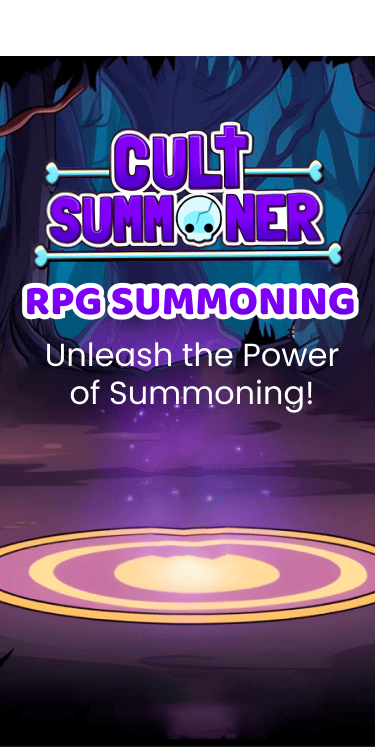
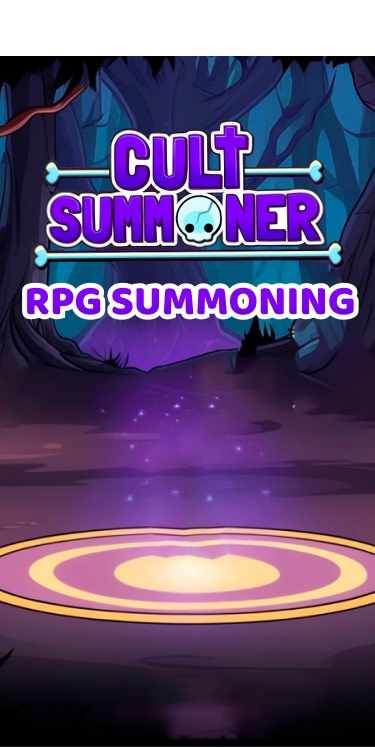
1

Changed region(s): [[0.1173, 0.4618, 0.9093, 0.5542]]

diff --git a/css/main.css b/css/main.css
@@ -1,6 +1,4 @@
-@import url("https://fonts.googleapis.com/css2?family=Fredoka:wght@300..700&family=Mali:ital,wght@0,200;0,300;0,400;0,500;0,600;0,700;1,200;1,300;1,400;1,500;1,600;1,700&family=Manrope:wght@200..800&family=Rajdhani:wght@300;400;500;600;700&display=swap");
-@import url("https://fonts.googleapis.com/css2?family=Baloo+2:wght@400..800&family=DynaPuff:wght@400..700&family=Fredoka:wght@300..700&family=Josefin+Sans:ital,wght@0,100..700;1,100..700&family=Mali:ital,wght@0,200;0,300;0,400;0,500;0,600;0,700;1,200;1,300;1,400;1,500;1,600;1,700&family=Manrope:wght@200..800&family=Rajdhani:wght@300;400;500;600;700&display=swap");
-@import url("https://fonts.googleapis.com/css2?family=Baloo+2:wght@400..800&family=Comme:wght@100..900&family=DynaPuff:wght@400..700&family=Fredoka:wght@300..700&family=Josefin+Sans:ital,wght@0,100..700;1,100..700&family=Mali:ital,wght@0,200;0,300;0,400;0,500;0,600;0,700;1,200;1,300;1,400;1,500;1,600;1,700&family=Manrope:wght@200..800&family=Rajdhani:wght@300;400;500;600;700&display=swap");
+@import url("https://fonts.googleapis.com/css2?family=Baloo+2:wght@400..800&display=swap");
 
 :root {
   --main-font: "Quicksand";
@@ -450,6 +448,18 @@ a {
   -ms-flex-align: center;
   align-items: center;
 }
+.home-text {
+  display: flex;
+  justify-content: center;
+  align-items: center;
+  font-family: Poppins;
+  font-size: 32px;
+  font-weight: 500;
+  line-height: 32px;
+  text-align: center;
+  color: #ffffff;
+  margin-top: 350px;
+}
 .home__container-top {
   display: -webkit-box;
   display: -ms-flexbox;
@@ -459,7 +469,7 @@ a {
   -ms-flex-direction: column;
   flex-direction: column;
   align-items: center;
-  margin-top: 600px;
+  margin-top: 100px;
 }
 
 .home__google-button_link {
@@ -474,7 +484,6 @@ a {
   animation: pulse 2s infinite;
   width: 264px;
   height: 66px;
-  margin-top: -100px;
   width: 200px;
 }
 .home__google-button_image {
@@ -491,89 +500,178 @@ a {
     height: 980px;
     gap: 0px;
     opacity: 0px;
-    background-image: url("/image/hero/Home\ \(2\)\ \(1\).png");
+    background-image: url("/image/hero/Home\ \(1\).png");
   }
-
-  .home__google-button_link {
-    width: 300px;
-    height: 86px;
-    margin: auto;
-    margin-top: 80px;
-    margin-left: 60px;
+  .home-text {
+    display: flex;
+    justify-content: center;
+    align-items: center;
+    font-family: Poppins;
+    font-size: 42px;
+    font-weight: 500;
+    line-height: 42px;
+    text-align: center;
+    color: #ffffff;
+    margin-top: 550px;
+    width: 576px;
+  }
+  .home__container-top {
+    display: -webkit-box;
+    display: -ms-flexbox;
+    display: flex;
+    -webkit-box-orient: vertical;
+    -webkit-box-direction: normal;
+    -ms-flex-direction: column;
+    flex-direction: column;
+    align-items: center;
+    margin-top: 50px;
   }
 }
 
 .advantages {
-  background: #7219de;
-}
-
-.advantages-image {
+  margin: auto;
   width: 375px;
-  margin: 0 auto 0;
+  height: 747px;
+  background-repeat: no-repeat;
+  background-size: cover;
+  background-position: center;
+  background-image: url("/image/GameDescription/Frame\ 1597880685.png");
 }
-.advantages-image-desk {
-  display: none;
+.description-title {
+  font-family: "Baloo 2", sans-serif;
+  font-size: 42px;
+  font-weight: 900;
+  line-height: 44px;
+  text-align: center;
+  text-underline-position: from-font;
+  text-decoration-skip-ink: none;
+  background: linear-gradient(180deg, #8000f7 0%, #5700d3 100%);
+  -webkit-background-clip: text;
+  -webkit-text-fill-color: transparent;
+  -webkit-text-stroke: 2px #ffffff;
+
+  color: #ffffff;
+  background-color: #f6e9cd;
+  padding-top: 64px;
+}
+.description-text {
+  font-family: Poppins;
+  font-size: 18px;
+  font-weight: 400s;
+  line-height: 24px;
+  text-align: left;
+  color: #ffffff;
+  width: 337px;
+  margin: auto;
+  padding-top: 90px;
+}
+.description-text-bold {
+  color: #fff701;
 }
 
 @media screen and (min-width: 1200px) {
   .advantages {
-    background: #7219de;
-  }
-
-  .advantages-image {
-    display: none;
-  }
-  .advantages-image-desk {
-    display: flex;
     margin: auto;
     width: 1440px;
+    height: 747px;
+    background-repeat: no-repeat;
+    background-size: cover;
+    background-position: center;
+    background-image: url("/image/GameDescription/Game\ Description.png");
+  }
+  .description-title {
+    font-family: "Baloo 2", sans-serif;
+    font-size: 42px;
+    font-weight: 900;
+    line-height: 44px;
+    text-align: center;
+    text-underline-position: from-font;
+    text-decoration-skip-ink: none;
+    background: linear-gradient(180deg, #8000f7 0%, #5700d3 100%);
+    -webkit-background-clip: text;
+    -webkit-text-fill-color: transparent;
+    -webkit-text-stroke: 2px #ffffff;
+
+    color: #ffffff;
+    background-color: #f6e9cd;
+    padding-top: 64px;
+  }
+  .description-text {
+    font-family: Poppins;
+    font-size: 28px;
+    font-weight: 400s;
+    line-height: 26px;
+    text-align: left;
+    color: #ffffff;
+    width: 588px;
+    margin: auto;
+    padding-top: 110px;
   }
 }
 
-.features {
-  background: linear-gradient(180deg, #fff6e0 0%, #fdeec6 100%);
-}
-.features-image {
-  width: 375px;
-  margin: 0 auto 0;
-}
-.features-image-desk {
-  display: none;
-}
-@media screen and (min-width: 1200px) {
-  .features {
-    background: linear-gradient(180deg, #fff6e0 0%, #fdeec6 100%);
-  }
-  .features-image {
-    display: none;
-  }
-  .features-image-desk {
-    display: flex;
-    margin: auto;
-    width: 1440px;
-  }
-}
 .play {
-  background: #7219de;
+  background-repeat: no-repeat;
+  background-position: center;
+  display: flex;
+  flex-direction: column;
+  align-items: center;
+  height: 1387px;
+  background-image: url(/image/HowtoPlay/How\ to\ Play.png);
 }
-.play-image {
-  width: 375px;
-  margin: 0 auto 0;
+.card {
+  background-image: url(/image/HowtoPlay/rule.png);
+  width: 343px;
+  height: 194px;
+  margin: 15px 0;
 }
-.play-image-desk {
-  display: none;
+.play-title {
+}
+.card-title {
+  font-family: "Baloo 2", sans-serif;
+  font-size: 24px;
+  font-weight: 300;
+  line-height: 44px;
+  text-align: center;
+  text-underline-position: from-font;
+  text-decoration-skip-ink: none;
+  -webkit-background-clip: text;
+  -webkit-text-fill-color: transparent;
+  -webkit-text-stroke: 2px #ffffff;
+  padding-top: 20px;
+}
+.card-text {
+  font-family: Poppins;
+  font-size: 16px;
+  font-weight: 300;
+  line-height: 20px;
+  text-align: center;
+  color: #ffffff;
+  width: 311px;
+  padding-top: 30px;
+  margin: auto;
 }
 @media screen and (min-width: 1200px) {
   .play {
-    background: #7219de;
-  }
-  .play-image {
-    display: none;
-  }
-  .play-image-desk {
     display: flex;
-    margin: auto;
+    flex-direction: column;
+    align-items: center;
+    height: 785px;
     width: 1440px;
+    background-image: url(/image/HowtoPlay/How\ to\ Play-desk.png);
+  }
+  .description-list {
+    display: flex;
+    flex-wrap: wrap;
+    margin: auto;
+    justify-content: center;
+    width: 1200px;
+    gap: 20px;
+  }
+  .card {
+    background-image: url(/image/HowtoPlay/rule.png);
+    width: 343px;
+    height: 194px;
+    margin: 15px 0;
   }
 }
 

diff --git a/index.html b/index.html
@@ -89,6 +89,7 @@
     <main class="main">
       <section class="home" id="home">
         <div class="home__wrapper container">
+          <p class="home-text">Unleash the Power of Summoning!</p>
           <div class="home__container-top">
             <a
               class="home__google-button_link"
@@ -106,40 +107,62 @@
       </section>
 
       <section class="advantages" id="advantages">
-        <h2 class="visually-hidden">Game Description</h2>
-
-        <div class="advantages__container">
-          <img
-            class="advantages-image"
-            src="image/GameDescription/Game Description.png"
-            alt=""
-          />
-          <img
-            class="advantages-image-desk"
-            src="image/GameDescription/Game Description (1).png"
-            alt=""
-          />
-        </div>
+        <h2 class="description-title">Game Description</h2>
+        <p class="description-text">
+          <span class="description-text-bold"
+            >Cult Summoner: RPG Summoning
+          </span>
+          invites players into a world of magic and mystery, where they summon
+          powerful creatures to aid them in battles and quests. Harness the
+          power of summoning spells, strategize your moves, and explore
+          enchanting realms filled with challenges and treasures. With an
+          immersive storyline and dynamic gameplay, Cult Summoner is the
+          ultimate RPG adventure.
+        </p>
       </section>
 
       <section class="play" id="play">
-        <h2 class="visually-hidden">play</h2>
-
-        <div class="play__container">
-          <img
-            class="play-image"
-            src="image/HowtoPlay/How to Play (2).png"
-            alt=""
-          />
-          <img
-            class="play-image-desk"
-            src="image/HowtoPlay/How to Play (3).png"
-            alt=""
-          />
-        </div>
+        <h2 class="description-title play-title">How to Plays</h2>
+        <ul class="description-list">
+          <li class="card">
+            <p class="card-title">Summon Creatures:</p>
+            <p class="card-text">
+              Use summoning spells to bring powerful allies to your side during
+              battles.
+            </p>
+          </li>
+          <li class="card">
+            <p class="card-title">Engage in Combat:</p>
+            <p class="card-text">
+              Strategically position your summoned creatures to defeat opponents
+              in turn-based combat.
+            </p>
+          </li>
+          <li class="card">
+            <p class="card-title">Complete Quests:</p>
+            <p class="card-text">
+              Embark on various quests to earn rewards and unlock new areas of
+              the game.
+            </p>
+          </li>
+          <li class="card">
+            <p class="card-title">Level Up:</p>
+            <p class="card-text">
+              Gain experience and upgrade your characters and summoned creatures
+              to enhance their abilities.
+            </p>
+          </li>
+          <li class="card">
+            <p class="card-title">Discover Secrets:</p>
+            <p class="card-text">
+              Explore the world for hidden treasures and lore to enrich your
+              journey.
+            </p>
+          </li>
+        </ul>
       </section>
       <section class="faq" id="faq">
-        <h2 class="faq-title">FAQ</h2>
+        <h2 class="description-title">FAQ</h2>
 
         <div class="faq-container">
           <!-- <img class="faq-title" src="/image/faq/FAQ (5).png" alt="faq" /> -->
@@ -252,7 +275,7 @@
       </section>
 
       <section class="gallery" id="gallery">
-        <h2 class="faq-title">Gallery</h2>
+        <h2 class="description-title">Gallery</h2>
 
         <div class="gallery__container">
           <ul data-aos="fade-down" class="gallery__list">
